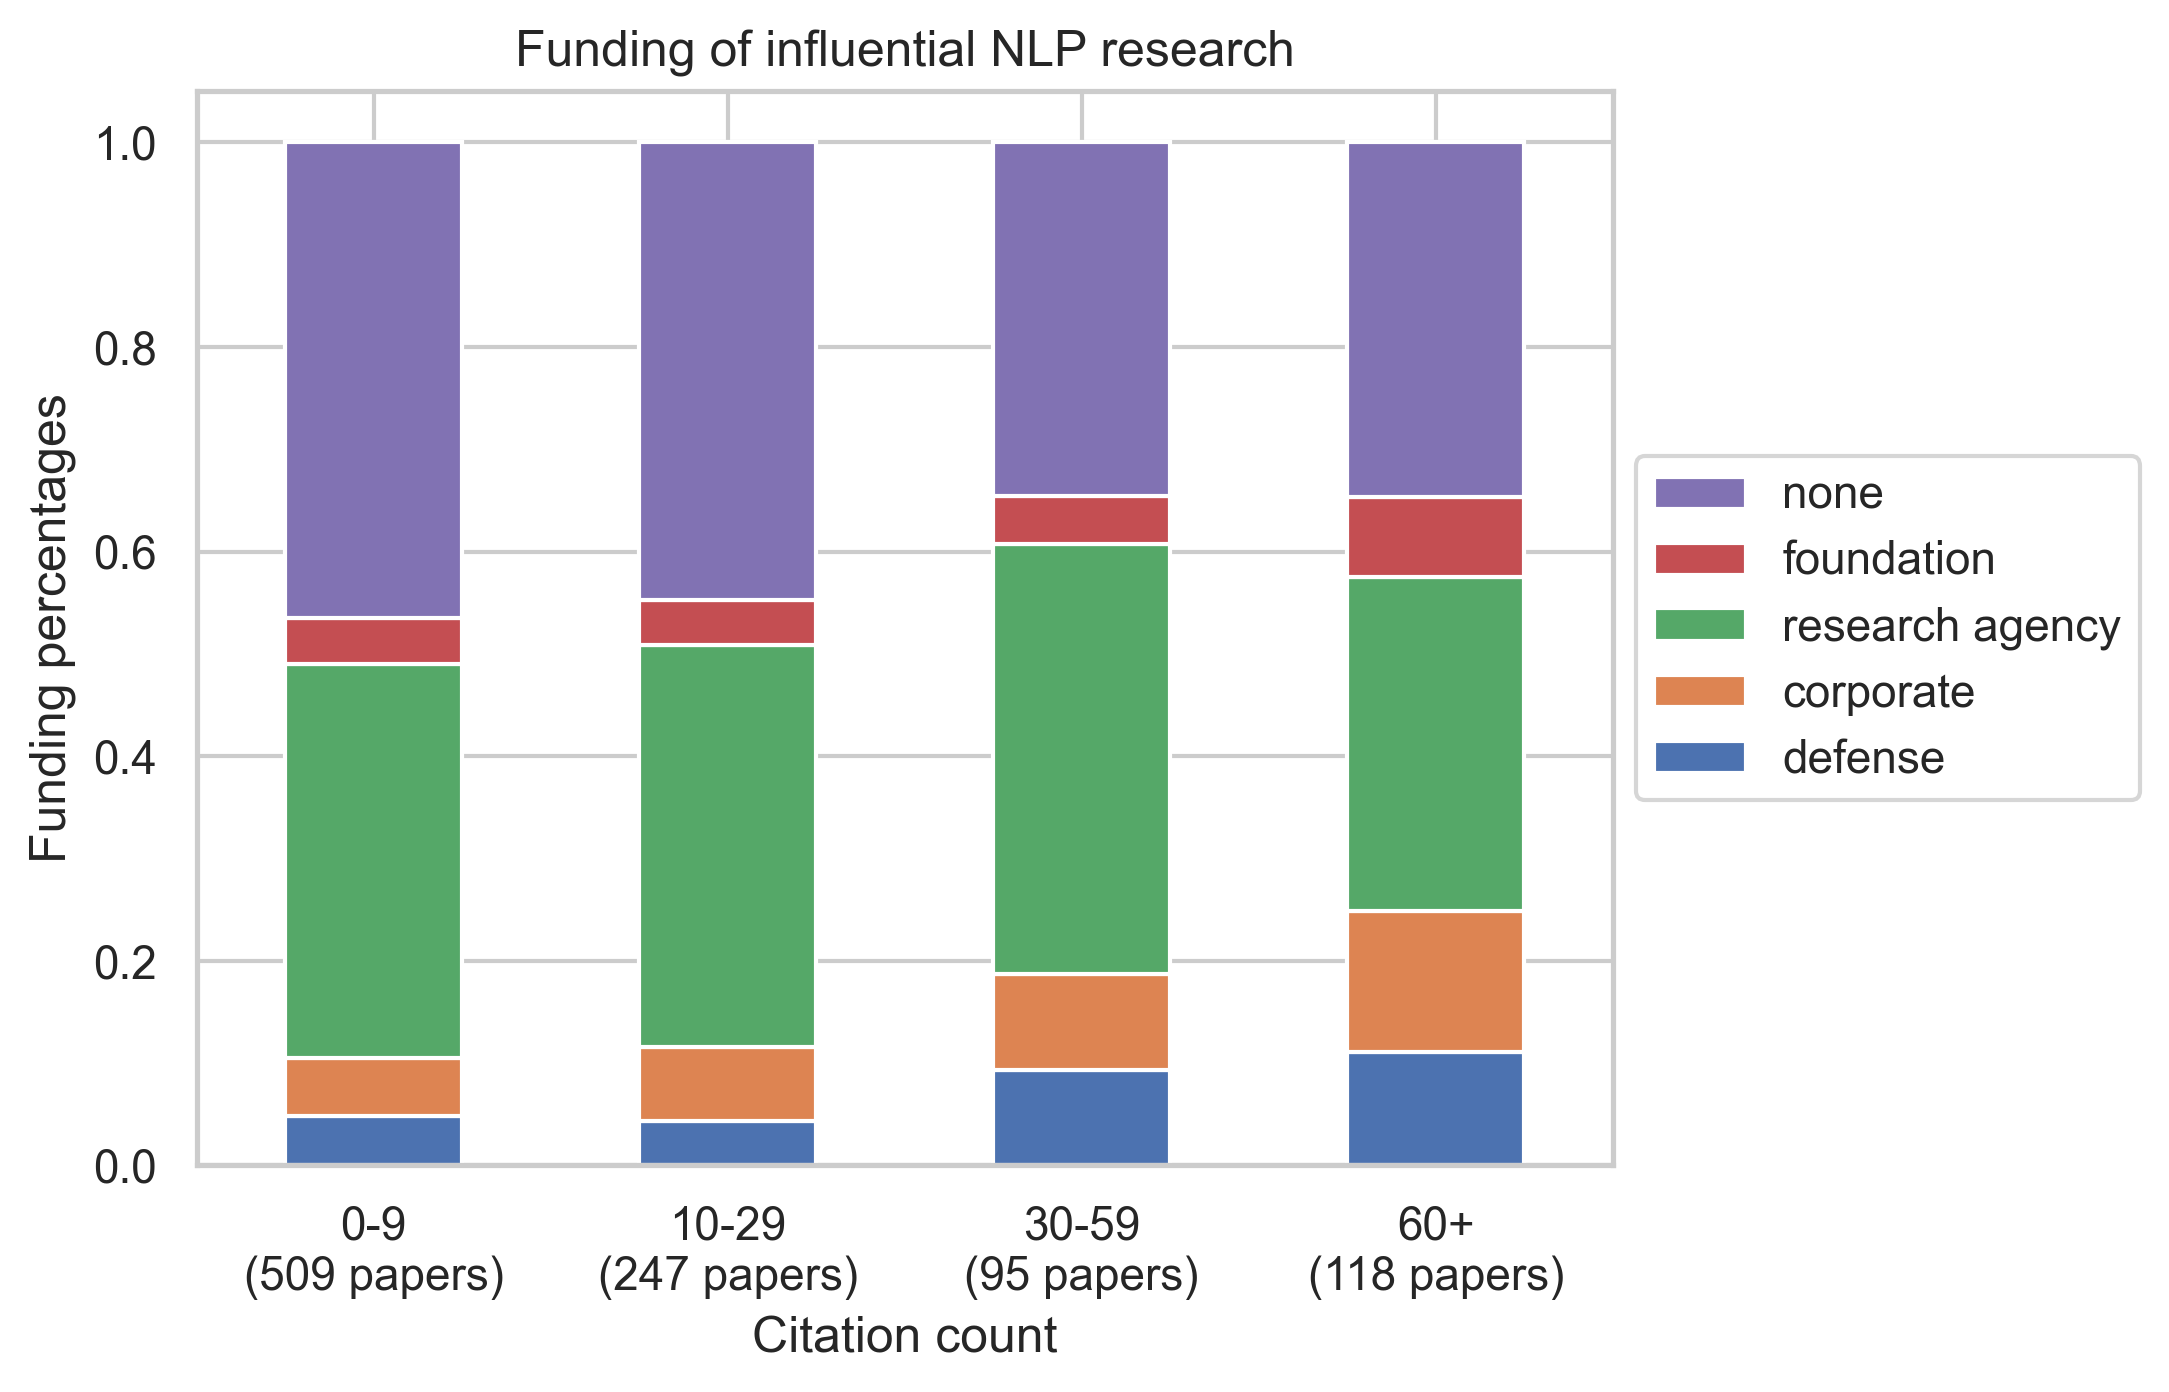
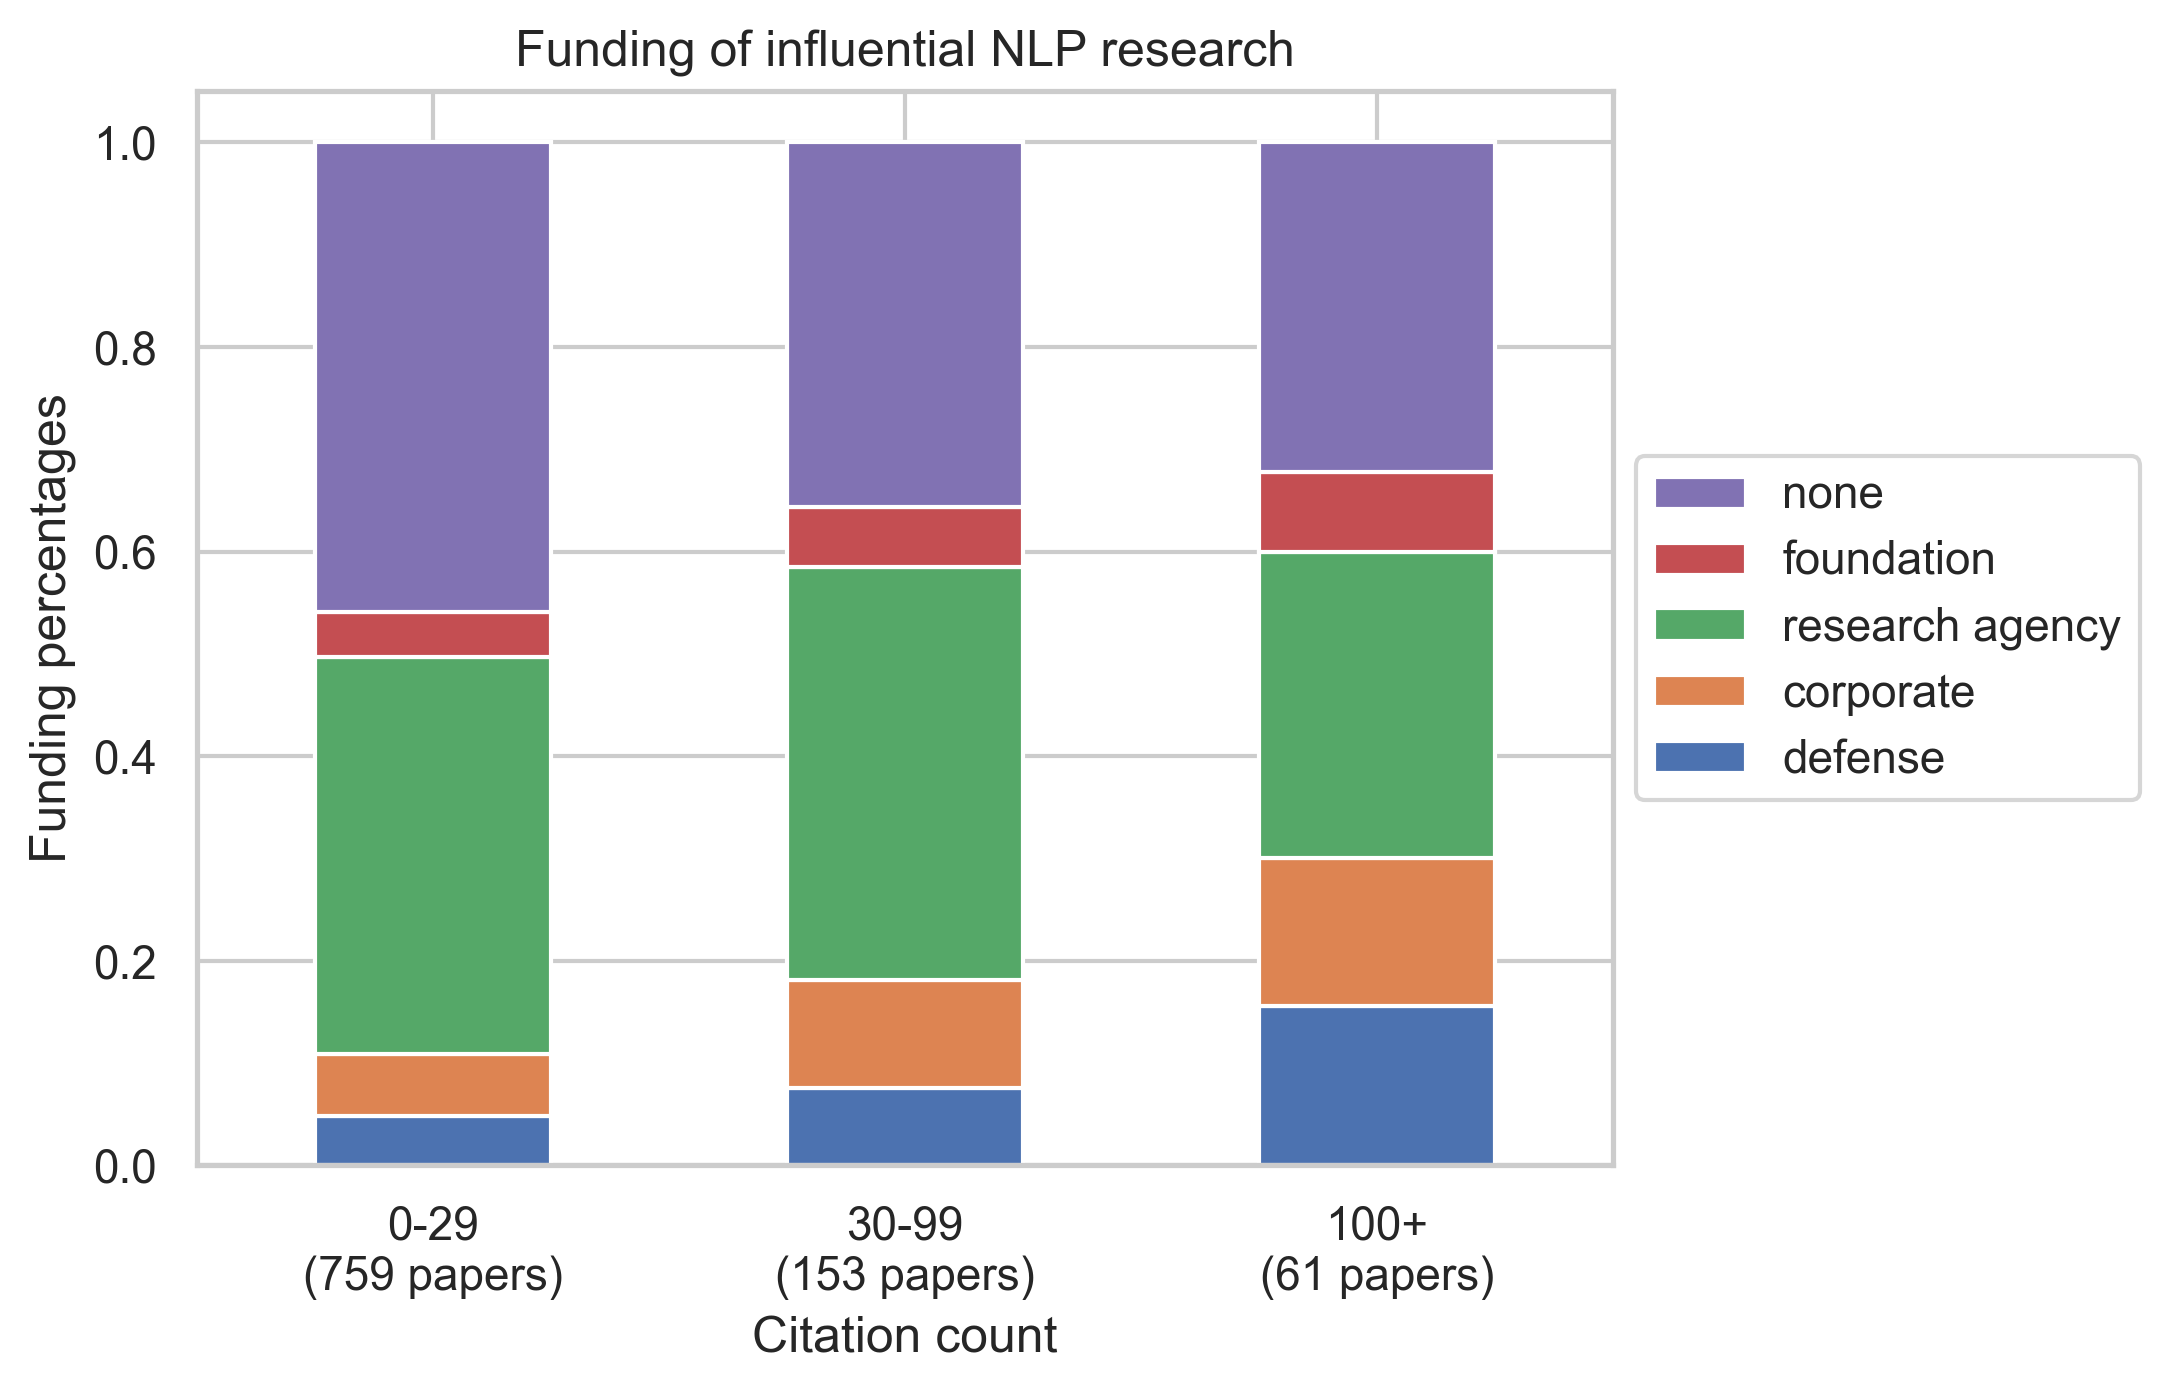
images

Changed region(s): [[0.1236, 0.0927, 0.7105, 0.8341], [0.0927, 0.8649, 0.556, 0.9267], [0.5869, 0.8649, 0.7105, 0.9267]]

diff --git a/analyze.py b/analyze.py
@@ -34,11 +34,11 @@ df = pd.DataFrame(data)
 # -----------------------------------------------------------------------------
 labels = ["defense","corporate","research agency","foundation","none"]
 df['decade'] = df.year // 10 % 10 * 10
-df = df[df.decade != 80]
 totals = dict(df.groupby('decade').acl_id.count())
 
 # normalize each year so the row adds up to 1
-funding_year = df.groupby('decade')[labels].sum()
+funding_year = df[df.decade != 80]
+funding_year = funding_year.groupby('decade')[labels].sum()
 funding_year = funding_year.div(funding_year.sum(axis=1), axis=0)
 decade_order = [80, 90, 0, 10, 20]
 mapping = {day: i for i, day in enumerate(decade_order)}
@@ -69,24 +69,27 @@ plt.clf()
 # -----------------------------------------------------------------------------
 labels = ["defense","corporate","research agency","foundation","none"]
 def categorize(citations):
-    if 0 <= citations <= 9:
-        return '0-9'
-    elif 10 <= citations <= 29:
-        return '10-29'
-    elif 30 <= citations <= 59:
-        return '30-59'
+    if 0 <= citations <= 29:
+        return '0-29'
+    # elif 10 <= citations <= 29:
+    #     return '10-29'
+    elif 30 <= citations <= 99:
+        return '30-99'
+    # elif 60 <= citations <= 99:
+    #     return '60-99'
     else:
-        return '60+'
+        return '100+'
 df['citations'] = df.numcitedby.apply(categorize)
 totals = dict(df.groupby('citations').acl_id.count())
 
 # normalize each year so the row adds up to 1
 funding_citations = df.groupby('citations')[labels].sum()
 funding_citations = funding_citations.div(funding_citations.sum(axis=1), axis=0)
-# citations_order = [80, 90, 0, 10, 20]
-# mapping = {day: i for i, day in enumerate(citations_order)}
-# key = funding_citations.index.map(mapping)
-# funding_citations = funding_citations.iloc[key.argsort()]
+
+citations_order = ['0-29', '10-29', '30-99', '60-99', '100+']
+mapping = {day: i for i, day in enumerate(citations_order)}
+key = funding_citations.index.map(mapping)
+funding_citations = funding_citations.iloc[key.argsort()]
 funding_citations.index = funding_citations.index.map(lambda x: f'{x}\n({totals[x]} papers)')
 
 # stacked barplot
